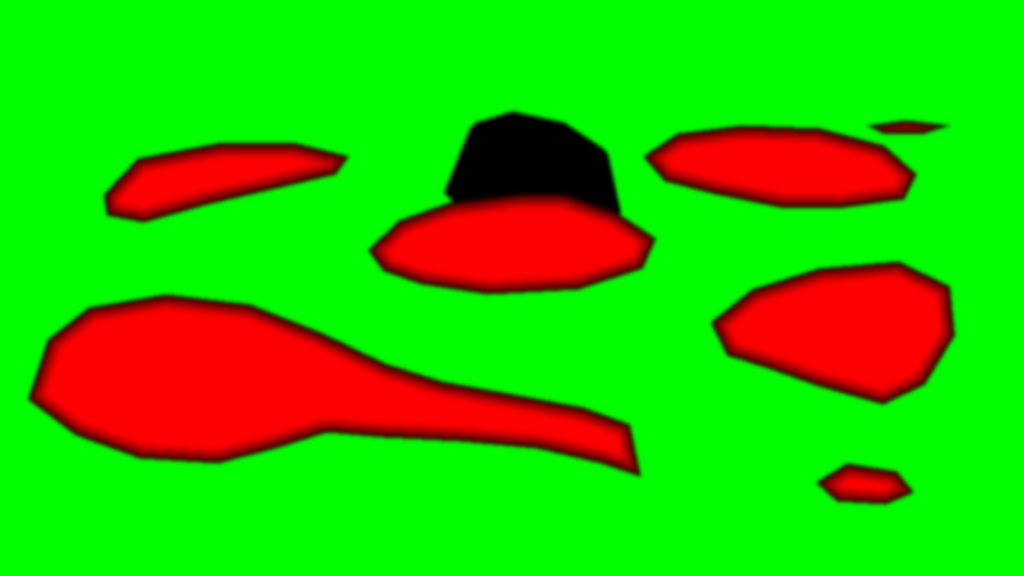
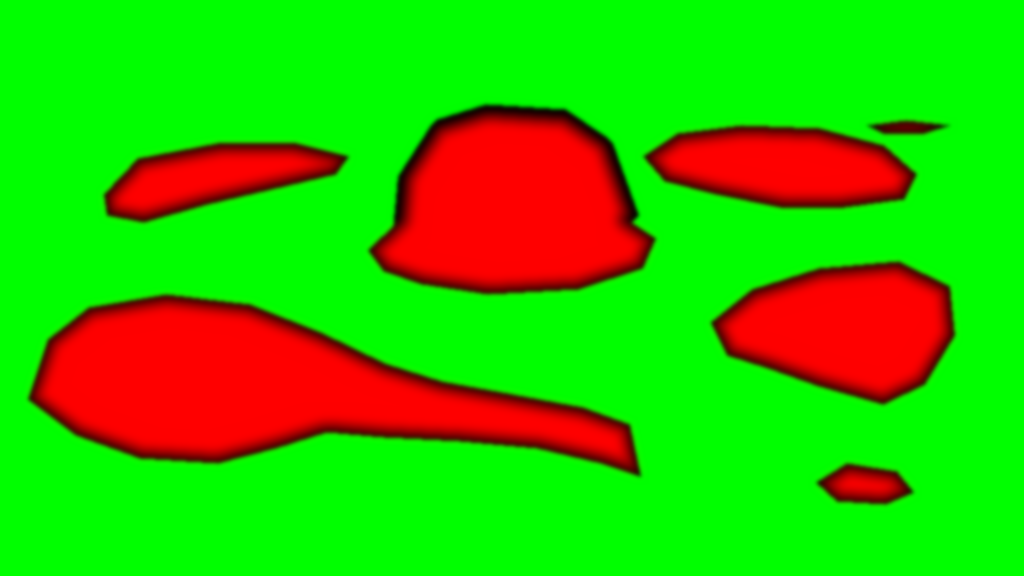
v71: diorama pulito: colori veri della foto, niente cubetti, segnalini piccoli da lontano e prezzi da vicino, colonne di luce per i Palazzi, ombre di nuvole e riflessi, vista iniziale sulla Laguna intera, grattacieli senza pieghe
Claude-Session: https://claude.ai/code/session_01P32BM3Y2LCHf6NozL8U9rZ

Changed region(s): [[0.375, 0.1562, 0.625, 0.4062]]

diff --git a/tre.js b/tre.js
@@ -7,7 +7,7 @@
 // =====================================================================
 import * as THREE from "three";
 import { MapControls } from "three/addons/controls/MapControls.js";
-import * as M3 from "./mondo3d.js?v=70";
+import * as M3 from "./mondo3d.js?v=71";
 
 // Il mondo modellato (isole, strada, ponti, mare) al posto della foto. ?foto = torna alla foto.
 // Normale: il DIORAMA = la foto stessa in rilievo. Il vecchio mondo a cubetti solo con ?mondo=3d.
@@ -61,7 +61,7 @@ export function avvia(mondo, mappaDom, urlMappa) {
   scena.fog = new THREE.Fog("#0b2a3a", 170, 330);
 
   camera = new THREE.PerspectiveCamera(38, innerWidth / innerHeight, 0.5, 900);
-  camera.position.set(0, MONDO ? 112 : 128, MONDO ? 92 : 72);
+  camera.position.set(0, MONDO ? 112 : 160, MONDO ? 92 : 62);
 
   if (MONDO) {
     scena.background = new THREE.Color("#9fd3ea"); scena.fog = new THREE.Fog("#9fd3ea", 160, 360);
@@ -72,8 +72,8 @@ export function avvia(mondo, mappaDom, urlMappa) {
   tex.colorSpace = THREE.SRGBColorSpace;
   tex.anisotropy = renderer.capabilities.getMaxAnisotropy();
   const geo = new THREE.PlaneGeometry(W, H, 320, 180);
-  const matFoto = new THREE.MeshStandardMaterial({ map: tex, roughness: 0.92, metalness: 0 });
-  const texRil = new THREE.TextureLoader().load("img/rilievo.png?v=70", (t) => {
+  const matFoto = new THREE.MeshLambertMaterial({ map: tex, emissive: 0xffffff, emissiveMap: tex, emissiveIntensity: 0.78 });
+  const texRil = new THREE.TextureLoader().load("img/rilievo.png?v=71b", (t) => {
     // le altezze vanno nella geometria (cosi' le ombre e la luce sono vere) e servono ai pezzi
     const c = document.createElement("canvas"); c.width = t.image.width; c.height = t.image.height;
     const g = c.getContext("2d"); g.drawImage(t.image, 0, 0);
@@ -91,7 +91,19 @@ export function avvia(mondo, mappaDom, urlMappa) {
       vec4 sampledDiffuseColor = texture2D(map, uvM);
       diffuseColor *= sampledDiffuseColor;
       float onda = sin(vMapUv.x * 90.0 + vMapUv.y * 60.0 + tempo * 0.9) * sin(vMapUv.y * 110.0 - vMapUv.x * 40.0 - tempo * 0.7);
-      diffuseColor.rgb *= 1.0 + mm * onda * 0.035;`);
+      diffuseColor.rgb *= 1.0 + mm * onda * 0.035;
+      // ombre di nuvole che passano piano
+      vec2 q = vMapUv * vec2(3.0, 1.7) + vec2(tempo * 0.006, tempo * 0.0025);
+      float nuvola = sin(q.x * 6.3 + sin(q.y * 4.1)) * sin(q.y * 5.7 + sin(q.x * 3.3 + 1.7)) + 0.5 * sin(q.x * 13.1 - q.y * 9.3);
+      diffuseColor.rgb *= 1.0 - 0.1 * smoothstep(0.35, 1.1, nuvola);
+      // riflessi del sole sull'acqua, verso il sole in alto a sinistra
+      float verso = smoothstep(0.9, 0.0, distance(vMapUv, vec2(0.08, 0.92)));
+      float scintilla = 0.5 + 0.5 * sin(vMapUv.x * 140.0 + vMapUv.y * 90.0 + tempo * 0.8 + 3.0 * sin(vMapUv.y * 37.0 + tempo * 0.3));
+      diffuseColor.rgb *= 1.0 + mm * verso * pow(scintilla, 6.0) * 0.12;`);
+    sh.fragmentShader = sh.fragmentShader.replace("#include <emissivemap_fragment>", `
+      #ifdef USE_EMISSIVEMAP
+        totalEmissiveRadiance *= diffuseColor.rgb;
+      #endif`);
   };
   piano = new THREE.Mesh(geo, matFoto);
   piano.rotation.x = -Math.PI / 2; piano.receiveShadow = true; piano.castShadow = true;
@@ -100,9 +112,9 @@ export function avvia(mondo, mappaDom, urlMappa) {
   mare.rotation.x = -Math.PI / 2; mare.position.y = -0.05; scena.add(mare);
   }
 
-  luceAmb = new THREE.HemisphereLight("#fff6e5", "#0d3b4f", 1.25);
+  luceAmb = new THREE.HemisphereLight("#fff6e5", "#0d3b4f", MONDO ? 1.25 : 0.35);
   scena.add(luceAmb);
-  luceSole = new THREE.DirectionalLight("#ffe2b0", 1.6);
+  luceSole = new THREE.DirectionalLight("#ffe2b0", MONDO ? 1.6 : 0.55);
   luceSole.position.set(-60, 90, 40);
   luceSole.castShadow = true;
   luceSole.shadow.mapSize.set(2048, 2048);
@@ -171,7 +183,8 @@ export function apriVicino(x, y) {
     const ped = pedine.get(mioIdTre), u = ped.cur / nCas, p = M.curva.getPoint(u), tg = M.curva.getTangent(u).setY(0).normalize();
     camera.position.copy(p).sub(tg.clone().multiplyScalar(22)).setY(Q + 14); controlli.target.copy(p).add(tg.multiplyScalar(5)).setY(Q + 1); controlli.update(); return;
   }
-  const t = daMappa(x, y), dir = camera.position.clone().sub(controlli.target).multiplyScalar(0.62);
+  if (!MONDO) return; // sulla foto si parte dalla Laguna intera, come nell'immagine
+  const t = daMappa(x, y), dir = camera.position.clone().sub(controlli.target).multiplyScalar(0.9);
   camera.position.copy(t).add(dir); controlli.target.copy(t); controlli.update();
 }
 export function centraSu(x, y) {
@@ -184,9 +197,9 @@ export function centraSu(x, y) {
 export function impostaNotte(n) {
   if (!attivo || n === notte) return;
   notte = n;
-  luceAmb.intensity = n ? 0.32 : 1.25;
+  luceAmb.intensity = n ? 0.32 : MONDO ? 1.25 : 0.35;
   luceAmb.color.set(n ? "#8aa2ff" : "#fff6e5");
-  luceSole.intensity = n ? 0.25 : 1.6;
+  luceSole.intensity = n ? 0.25 : MONDO ? 1.6 : 0.55;
   luceSole.color.set(n ? "#7d8cff" : "#ffe2b0");
   const cielo = MONDO ? "#9fd3ea" : "#0b2a3a";
   scena.background.set(n ? "#050816" : cielo); scena.fog.color.set(n ? "#050816" : cielo);
@@ -269,6 +282,32 @@ function torre(colore, piani) {
   accendiFinestre(g, notte);
   return g;
 }
+function anelloPedina(colore) {
+  const g = new THREE.Group();
+  const a = new THREE.Mesh(new THREE.RingGeometry(0.6, 1.0, 40), new THREE.MeshBasicMaterial({ color: colore, transparent: true, opacity: 0.95, blending: THREE.AdditiveBlending, depthWrite: false }));
+  a.rotation.x = -Math.PI / 2; a.position.y = 0.1; g.add(a);
+  const b = new THREE.Mesh(new THREE.CircleGeometry(0.6, 32), new THREE.MeshBasicMaterial({ color: colore, transparent: true, opacity: 0.35, depthWrite: false }));
+  b.rotation.x = -Math.PI / 2; b.position.y = 0.09; g.add(b);
+  return g;
+}
+// sulla foto i Palazzi dei giocatori sono colonne di luce del loro colore: piu' piani = piu' alta
+const geoAlone = (() => { const g = new THREE.RingGeometry(0.55, 1.35, 40); return g; })();
+function texRaggio() {
+  const c = document.createElement("canvas"); c.width = 4; c.height = 128; const g = c.getContext("2d");
+  const gr = g.createLinearGradient(0, 0, 0, 128); gr.addColorStop(0, "rgba(255,255,255,0)"); gr.addColorStop(0.7, "rgba(255,255,255,.55)"); gr.addColorStop(1, "rgba(255,255,255,1)");
+  g.fillStyle = gr; g.fillRect(0, 0, 4, 128); const t = new THREE.CanvasTexture(c); return t;
+}
+let TEX_RAGGIO = null;
+function colonnaLuce(colore, piani) {
+  TEX_RAGGIO = TEX_RAGGIO || texRaggio();
+  const g = new THREE.Group(), h = Math.min(30, 4 + piani * 0.7);
+  const mat = new THREE.MeshBasicMaterial({ color: colore, map: TEX_RAGGIO, transparent: true, opacity: 0.85, blending: THREE.AdditiveBlending, depthWrite: false, side: THREE.DoubleSide });
+  for (const r of [0.35, 0.8]) { const m = new THREE.Mesh(new THREE.CylinderGeometry(r, r, h, 20, 1, true), mat.clone()); m.material.opacity = r < 0.5 ? 0.9 : 0.35; m.position.y = h / 2; g.add(m); }
+  const base = new THREE.Mesh(geoAlone, new THREE.MeshBasicMaterial({ color: colore, transparent: true, opacity: 0.9, blending: THREE.AdditiveBlending, depthWrite: false }));
+  base.rotation.x = -Math.PI / 2; base.position.y = 0.08; base.scale.setScalar(1.3); g.add(base);
+  g.userData.raggio = true;
+  return g;
+}
 function pedina(colore) {
   const g = new THREE.Group();
   // colore pieno che si accende un po' da solo, cosi' la pedina si vede anche sopra gli edifici
@@ -298,22 +337,16 @@ export function aggiorna({ caselle, torri: tt, giocatori }) {
     svuota(gruppoBasi); svuota(gruppoEdifici); svuota(gruppoTorri);
     if (MONDO) disegnaLotti(caselle);
     else for (const c of caselle) {
-      const p = daMappa(c.x, c.y);
-      const base = new THREE.Mesh(geoBox, new THREE.MeshStandardMaterial({ color: c.spento ? "#2a2f3a" : c.colore, roughness: 0.6, transparent: !!c.spento, opacity: c.spento ? 0.35 : 1 }));
-      const grande = c.tipo === "angolo";
-      const hb = altezzaFoto(c.x, c.y);
-      base.scale.set(grande ? 3 : 2.2, 0.35, grande ? 3 : 2.2); base.position.set(p.x, hb + 0.17, p.z); base.receiveShadow = true; base.castShadow = true;
-      gruppoBasi.add(base);
-      if (c.proprietario && (c.livello > 0 || c.cantiere) && !c.spento) {
-        const e = edificio(c.proprietario, c.livello, c.cantiere);
-        // l'edificio sta un po' dietro la casella, cosi' non copre il prezzo
-        e.position.set(p.x, altSu({ x: p.x, z: p.z - 2.4 }) + 0.35, p.z - 2.4); gruppoEdifici.add(e);
-      }
+      if (!c.proprietario || c.spento) continue;
+      const p = daMappa(c.x, c.y), hb = altezzaFoto(c.x, c.y);
+      const alone = new THREE.Mesh(geoAlone, new THREE.MeshBasicMaterial({ color: c.proprietario, transparent: true, opacity: 0.55 + 0.08 * (c.livello || 0), blending: THREE.AdditiveBlending, depthWrite: false }));
+      alone.rotation.x = -Math.PI / 2; alone.position.set(p.x, hb + 0.06, p.z); alone.scale.setScalar(1 + 0.18 * (c.livello || 0)); alone.userData.pulsa = Math.random() * 6;
+      gruppoBasi.add(alone);
     }
     const perIsola = {};
     for (const t of tt) {
       if (t.spento) continue;
-      const m = torre(t.colore, t.piani);
+      const m = MONDO ? torre(t.colore, t.piani) : colonnaLuce(t.colore, t.piani);
       if (MONDO && M.centri[t.isola]) { const k = (perIsola[t.isola] = (perIsola[t.isola] || 0) + 1) - 1, c = M.centri[t.isola]; m.position.set(c.x + (k % 2 ? 1 : -1) * Math.ceil(k / 2) * 4.2, 0.9, c.z); }
       else { const p = daMappa(t.x, t.y); m.position.set(p.x, altezzaFoto(t.x, t.y), p.z); }
       gruppoTorri.add(m);
@@ -322,7 +355,7 @@ export function aggiorna({ caselle, torri: tt, giocatori }) {
   // pedine: create una volta, poi seguono la loro posizione
   for (const g of giocatori) {
     if (!pedine.has(g.id)) {
-      const m = MONDO ? auto(g.colore) : pedina(g.colore); scena.add(m);
+      const m = MONDO ? auto(g.colore) : anelloPedina(g.colore); scena.add(m);
       const p = daMappa(g.x, g.y); m.position.copy(p);
       pedine.set(g.id, { mesh: m, target: p.clone(), salto: 0, cur: g.pos || 0, goal: g.pos || 0 });
     }
@@ -490,6 +523,7 @@ function frame() {
   controlli.update();
   if (MONDO) return frameMondo();
   tempoMare.value = performance.now() / 1000;
+  for (const a of gruppoBasi.children) if (a.userData.pulsa != null) a.material.opacity = 0.45 + 0.2 * Math.sin(tempoMare.value * 2 + a.userData.pulsa);
   adattaVista();
   // le pedine seguono la pedina HTML (che il gioco sposta casella per casella) e saltano a ogni passo
   for (const [id, ped] of pedine) {
@@ -501,7 +535,7 @@ function frame() {
     ped.mesh.position.x += (ped.target.x - ped.mesh.position.x) * 0.25;
     ped.mesh.position.z += (ped.target.z - ped.mesh.position.z) * 0.25;
     ped.salto = Math.max(0, ped.salto - 0.07);
-    ped.mesh.position.y = altSu(ped.mesh.position) + Math.sin(ped.salto * Math.PI) * 1.4;
+    ped.mesh.position.y = altSu(ped.mesh.position) + Math.sin(ped.salto * Math.PI) * (MONDO ? 1.4 : 0.3);
   }
   renderer.render(scena, camera);
   proiettaHtml();
@@ -573,4 +607,5 @@ function proiettaHtml() {
   }
   contenitore.style.setProperty("--dist", dist.toFixed(1));
   contenitore.classList.toggle("vicino", dist < 55);
+  contenitore.classList.toggle("medio", dist < 95);
 }

diff --git a/stile.css b/stile.css
@@ -590,3 +590,29 @@ details.opera{border-top:1px solid rgba(255,255,255,.1);padding:6px 0}details.op
 table.conti{width:100%;border-collapse:collapse;font-size:13px;margin-top:4px}table.conti td{padding:4px 2px;border-top:1px solid rgba(255,255,255,.08);vertical-align:top}table.conti td:last-child{text-align:right}table.conti tr.tot td{border-top:1px solid rgba(255,255,255,.3)}
 
 .esito-notte{margin:10px 0;padding:10px 12px;border-radius:14px;background:rgba(10,16,26,.72);border:1px solid rgba(255,255,255,.18);font-size:14px;display:flex;flex-direction:column;gap:4px}.esito-notte .esito-cifre{font-size:17px;font-weight:800}.esito-notte .pallino{display:inline-block;width:10px;height:10px;border-radius:50%;margin-right:4px;vertical-align:middle}
+
+/* ===== v71: il diorama pulito. Da lontano la foto si vede intera, con segnalini piccoli ===== */
+#mondo.tre:not(.medio) #mappa .cas .cn,#mondo.tre:not(.medio) #mappa .cas .livc{display:none}
+#mondo.tre:not(.medio) #mappa .cas.terreno i{min-width:0;width:11px;height:11px;padding:0;border-radius:50%;border:2px solid var(--serie,#fff);background:rgba(255,255,255,.85);box-shadow:0 0 0 1px rgba(0,0,0,.35),0 2px 6px rgba(0,0,0,.5)}
+#mondo.tre:not(.medio) #mappa .cas.terreno i>*{display:none}
+#mondo.tre:not(.medio) #mappa .cas.terreno.pres i{width:14px;height:14px;background:var(--own);border:2px solid #fff;box-shadow:0 0 10px var(--own),0 0 0 1px rgba(0,0,0,.4)}
+#mondo.tre:not(.medio) #mappa .cas.spec i,#mondo.tre:not(.medio) #mappa .cas.lib i{width:20px;height:20px;border-width:1.5px;background:rgba(10,16,28,.78)}
+#mondo.tre:not(.medio) #mappa .cas.spec i .lic{width:11px;height:11px}
+#mondo.tre:not(.medio) #mappa .cas.lib i{width:9px;height:9px;opacity:.7}
+#mondo.tre:not(.medio) #mappa .cas.ang i{width:28px;height:28px}
+#mondo.tre:not(.medio) #mappa .cas.ang i .lic{width:15px;height:15px}
+#mondo.tre:not(.medio) #mappa .cas.ang .cn{display:block;font-size:10px;background:rgba(5,10,20,.6)}
+/* distanza media: i prezzi, ma piu' piccoli e senza nomi */
+#mondo.tre.medio:not(.vicino) #mappa .cas.terreno i{min-width:30px;height:20px;padding:0 4px 0 6px;border-left-width:4px;border-radius:5px}
+#mondo.tre.medio:not(.vicino) #mappa .cas.terreno em{font-size:10.5px}
+#mondo.tre.medio:not(.vicino) #mappa .cas .cn{display:none}
+#mondo.tre.medio:not(.vicino) #mappa .cas.spec i{width:26px;height:26px}
+#mondo.tre.medio:not(.vicino) #mappa .cas.spec i .lic{width:14px;height:14px}
+/* i segnalini sono di vetro: la foto resta protagonista */
+#mondo.tre #mappa .cas{opacity:.96;transition:opacity .2s}
+#mondo.tre #mappa .cas:hover{opacity:1;z-index:5000!important}
+#mondo.tre #mappa .cas:hover .cn{display:block!important}
+/* nomi delle isole: piu' eleganti, con un'ombra morbida invece del riquadro */
+#mondo.tre #mappa .isola-nome{text-shadow:0 2px 12px rgba(0,0,0,.85),0 0 2px rgba(0,0,0,.9);letter-spacing:.04em}
+/* cornice: un leggero vignettato caldo, come la foto */
+#mondo.tre::after{background:radial-gradient(ellipse at 30% 20%,rgba(255,190,120,.10),rgba(0,0,0,0) 45%),radial-gradient(ellipse at center,rgba(5,10,20,0) 62%,rgba(5,10,20,.5) 100%)!important}

diff --git a/gioco.js b/gioco.js
@@ -11,14 +11,14 @@ const esc = (t) => String(t ?? "").replace(/[&<>"]/g, (c) => ({ "&": "&amp;", "<
 const VELOCE = location.search.includes("veloce");
 const VELOCE_2D = location.search.includes("2d");
 const LOCALE = location.search.includes("locale");  // ?locale = partita contro il computer, senza server
-import * as Tre from "./tre.js?v=70";
+import * as Tre from "./tre.js?v=71";
 import * as Pano from "./panorama.js?v=51";
 // il tabellone 3D: acceso di base se il computer lo supporta; si puo' tornare al 2D
 let TRE3D = false;
 // chiave nuova: la vecchia scelta "2D" (laguna_3d) non conta piu', il diorama parte da solo
 function vuole3D() { try { return localStorage.getItem("laguna_vista") !== "piatta"; } catch (e) { return true; } }
 let AVVISO3D = false;
-import * as Loc from "./locale.js?v=70";   // ?veloce = senza animazioni (per le prove)
+import * as Loc from "./locale.js?v=71";   // ?veloce = senza animazioni (per le prove)
 const pausa = (ms) => new Promise((r) => setTimeout(r, ms));
 const COL_SERIE = { Spezie: "#9b5a2c", Lanterne: "#ff8a3d", Terracotta: "#d9480f", Giungla: "#2b9348", Perla: "#f2a7c3", Diamante: "#e0f7ff", Rame: "#b87333", Sabbia: "#e9c46a", Corallo: "#14b8a6", Neon: "#ff4fa3", Velluto: "#b5179e", Acciaio: "#5c7f99", Vetro: "#2f6fe0", Oro: "#c9a24a", Platino: "#8d99ae", Moli: "#9aa", Salina: "#f4f1de", Mangrovie: "#1b5e3b", Smeraldo: "#10b981", Tramonto: "#f97316", Cobalto: "#1e40af" };
 const SCENE = { Ambra: "img/ambra.jpg", Palma: "img/palma.jpg", Flamingo: "img/flamingo.jpg", Sole: "img/sole.jpg", Corona: "img/corona.jpg" };

diff --git a/index.html b/index.html
@@ -6,7 +6,7 @@
 <title>Re della Laguna</title>
 <link rel="preconnect" href="https://fonts.googleapis.com">
 <link href="https://fonts.googleapis.com/css2?family=Manrope:wght@400;500;600;700;800&family=DM+Serif+Display&display=swap" rel="stylesheet">
-<link rel="stylesheet" href="stile.css?v=70">
+<link rel="stylesheet" href="stile.css?v=71">
 </head>
 <body>
 <div id="sfondo"></div>
@@ -14,8 +14,8 @@
 <div id="radice"></div>
 <div id="telefonoBox"></div>
 <script type="importmap">{"imports":{"three":"./vendor/three/three.module.js","three/addons/":"./vendor/three/"}}</script>
-<script src="motore.js?v=70"></script>
-<script src="bot.js?v=70"></script>
-<script type="module" src="gioco.js?v=70"></script>
+<script src="motore.js?v=71"></script>
+<script src="bot.js?v=71"></script>
+<script type="module" src="gioco.js?v=71"></script>
 </body>
 </html>

diff --git a/attrezzi/rilievo.py b/attrezzi/rilievo.py
@@ -1,5 +1,5 @@
 import sys, numpy as np
-sys.path.insert(0, "/home/claude/attrezzi")
+sys.path.insert(0, "/home/claude/re-della-laguna/attrezzi")
 from isole import ISOLE, TORRI
 from PIL import Image, ImageDraw
 from scipy import ndimage as nd
@@ -9,9 +9,10 @@ def maschera(polys):
     for p in polys: d.polygon([(x * k, y * k) for x, y in p], fill=255)
     return np.asarray(m) > 0
 terra = maschera(ISOLE.values()); torri = maschera(TORRI)
+terra = terra | torri  # i grattacieli stanno su un unico altopiano liscio: niente pieghe nella foto
 d = nd.distance_transform_edt(terra)
 alt = np.clip(d / 16, 0, 1) ** 0.7
-alt = nd.gaussian_filter(alt, 2.2)
+alt = nd.gaussian_filter(alt, 4.0)
 mare = nd.gaussian_filter((~(terra | nd.binary_dilation(torri, iterations=6))).astype(np.float32), 2)
 img = np.zeros((H, W, 3), np.uint8)
 img[..., 0] = (np.clip(alt, 0, 1) * 255).astype(np.uint8)

diff --git a/attrezzi/isole.py b/attrezzi/isole.py
@@ -9,4 +9,4 @@ ISOLE = {
  "isolotto": [(678,98),(708,94),(742,98),(722,104),(690,104)],
 }
 # zone dei grattacieli (piu' alte)
-TORRI = [[(352,150),(372,100),(400,92),(440,100),(470,120),(480,166),(440,175),(380,178)]]
+TORRI = [[(312,180),(316,138),(342,98),(380,86),(442,90),(474,112),(494,168),(470,182)]]
